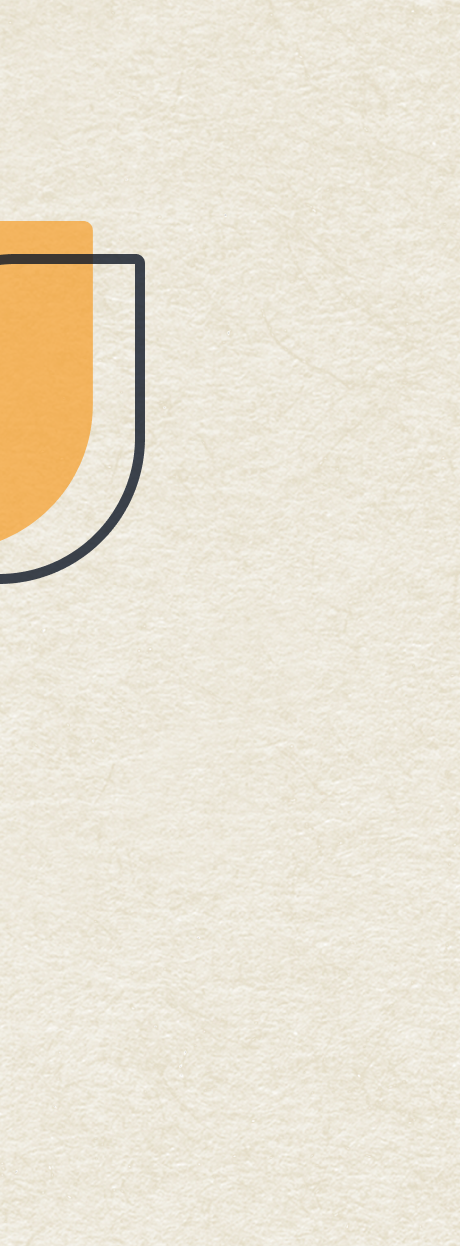
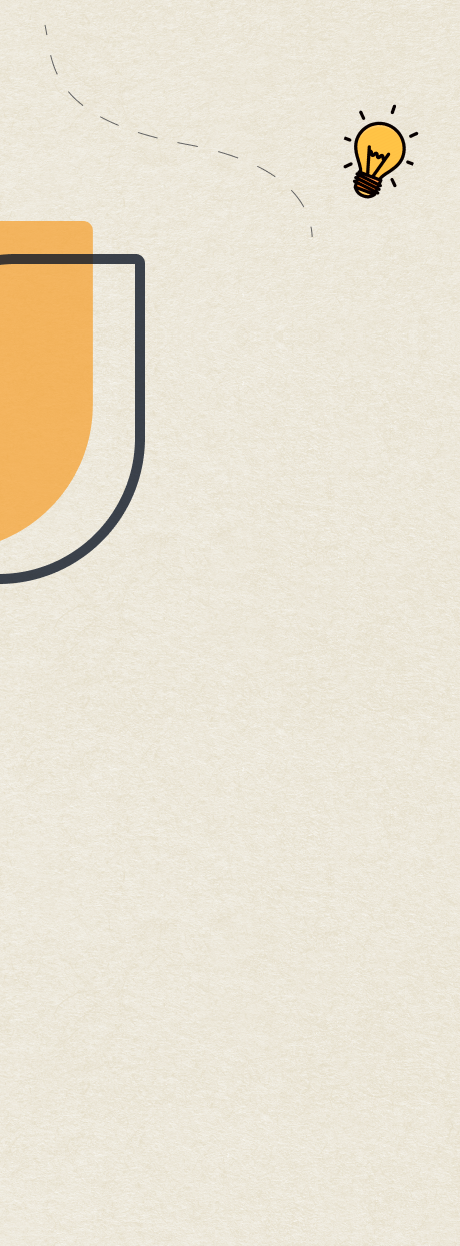
fix: backgrounds

Changed region(s): [[0.7609, 0.0915, 0.8826, 0.183]]

diff --git a/src/pages/index.tsx b/src/pages/index.tsx
@@ -34,10 +34,12 @@ export const Home = () => {
         </Box>
         <Box
           backgroundImage={[
-            '/images/bg-how-mobile.png',
+            '/images/bg-how-mobile-test.png',
             '/images/bg-how-md.png',
             '/images/bg-how-md.png'
           ]}
+          mt="-.5rem"
+
           backgroundSize="cover"
           backgroundRepeat="no-repeat"
           h="100%"
@@ -47,7 +49,7 @@ export const Home = () => {
         </Box>
         <Box
           backgroundImage={[
-            '/images/testidea.png',
+            '/images/bg-idea-mobile.png',
             '/images/bg-idea-md.png',
             '/images/bg-idea-md.png'
           ]}
